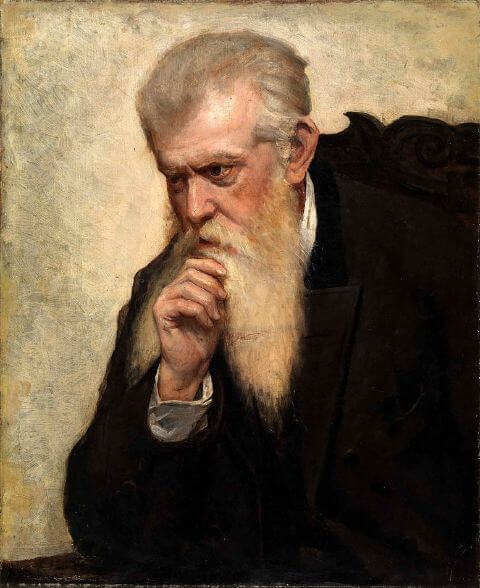
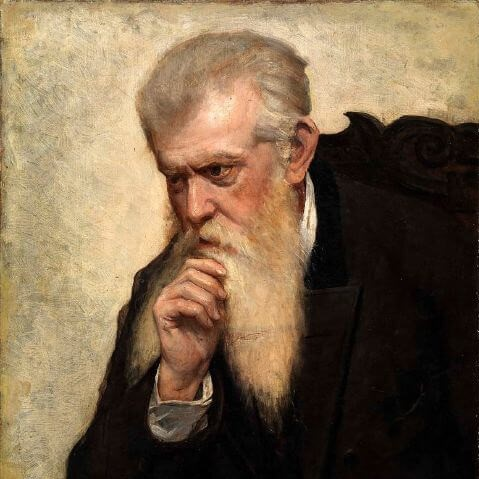
made changes according to review also resized img

diff --git a/index.html b/index.html
@@ -10,13 +10,15 @@
   <body class="page">
     <div class="page__content">
         <header class="header">
-            <div class="header__logo" style="background-image:url('images/around_the_us.svg')" 
-              alt="around the us"></div>
+            <img class="header__logo" src="images/around_the_us.svg" 
+              alt="around the us">
         </header>
         <section class="profile">
             <div class="profile__info">
-                <div class="profile__picture" style="background-image:url('images/George-wheeler.jpg')" 
-                  alt="George Wheeler"></div>
+                <img class="profile__picture" src="images/George-wheeler.jpg" 
+                  alt="George Wheeler">
+                  <!-- Thank you for the help and compliments -->
+                  <!-- Always glad to see a good report -->
                 <div class="profile__name-line">
                     <h1 class="profile__name">George Wheeler</h1>  
                     <button class="profile__edit-button"></button>
@@ -26,14 +28,13 @@
             <button class="profile__add-button"></button>
         </section>
         <section class="gallery">
-            <ul class="gallery__grid">
-                
+            <ul class="gallery__grid"> 
             </ul>
         </section>
         <footer class="footer">
             <p class="footer__copyright">© 2020 Austin Cook</p>
         </footer>
-        <section class="popout popout_profile-edit">
+        <div class="popout popout_profile-edit">
           <div class="popout__container popout__container_profile-edit">
               <button class="popout__close-button"></button>
               <form class="popout__form">
@@ -46,8 +47,8 @@
                     type="submit" value="Save">Save</button>
               </form>
           </div>
-      </section>
-      <section class="popout popout_gallery-add">
+        </div>
+      <div class="popout popout_gallery-add">
           <div class="popout__container popout__container_gallery-add">
               <button class="popout__close-button "></button>
               <form class="popout__form popout_gallery-add__form">
@@ -60,8 +61,8 @@
                     type="submit" value="Save">Create</button>
               </form>
           </div>
-      </section>
-      <section class="popout popout_picture-view">
+        </div>
+      <div class="popout popout_picture-view">
           <div class="popout__container popout__container_picture-view">
               <button class="popout__close-button"></button>
               <figure class="popout__picture-container">
@@ -69,7 +70,7 @@
                 <figcaption class="popout__title"></figcaption> 
               </figure>
           </div>
-      </section>
+      </div>
   </div>
   <template id="gallery-object">
       <li class="gallery__container">

diff --git a/blocks/popout/__form/popout__form.css b/blocks/popout/__form/popout__form.css
@@ -1,6 +1,6 @@
 .popout__form {
     background: #FFFFFF;
-    box-shadow: 0px 0px 25px rgba(0, 0, 0, .15);
+    box-shadow: 0 0 25px rgba(0, 0, 0, .15);
     border-radius: 10px;
     height: 330px;
     width: 430px;

diff --git a/blocks/popout/__container/popout__container.css b/blocks/popout/__container/popout__container.css
@@ -1,5 +1,4 @@
 .popout__container{
-    display: -ms-grid;
     display: grid;
     visibility: hidden;
     position: fixed;
